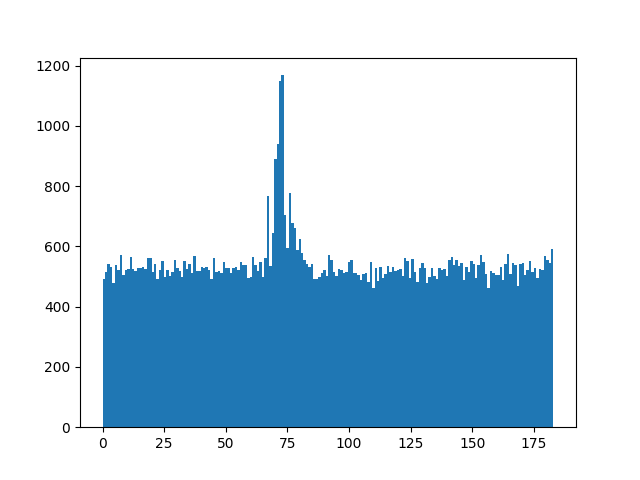
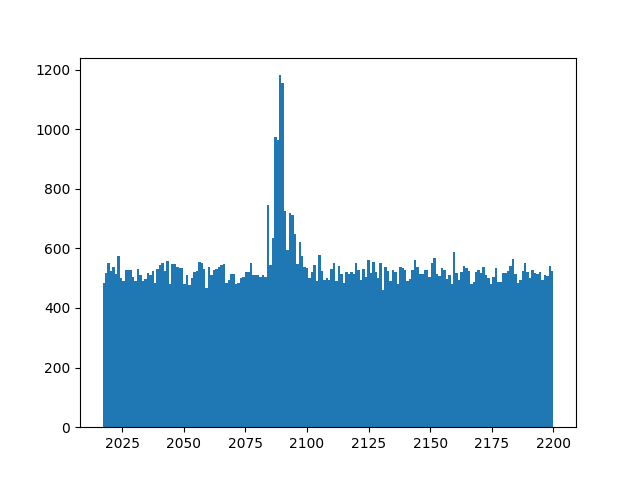
Finishing details
Added statement to create a results text file and implemented a burn period.

diff --git a/main.py b/main.py
@@ -4,6 +4,7 @@ from functools import partial
 import matplotlib.pyplot as plt
 import numpy as np
 from scipy import special as sp
+from scipy import stats
 
 
 def g(k, l1, l2, x):
@@ -27,6 +28,7 @@ with open(get_config("data_path"), "r") as f:
     data = np.array(tuple(int(value) for value in f.read().split()))
 
 n0 = data.size // 2
+burn_period = 1000
 
 rng = np.random.default_rng()
 
@@ -52,24 +54,6 @@ for k in range(reps):
     lambda_1s[k] = lambda_1
     lambda_2s[k] = lambda_2
 
-    # prob = np.exp(
-    #     np.log(lambda_1 * forward_sum) - lambda_1 * forward_index
-    #     + np.log(lambda_2 * reverse_sum) - lambda_2 * reverse_index
-    # )
-
-    # logprob = (
-    #     np.sum(np.log(data))
-    #     + np.sum(sp.loggamma(data))
-    #     - lambda_1 * (2 * forward_index + b0)
-    #     - lambda_2 * (2 * reverse_index + b0)
-    #     + np.log(lambda_1) * (2 * forward_sum + a0 - 1)
-    #     + np.log(lambda_2) * (2 * reverse_sum + a0 - 1)
-    #     - sp.loggamma(forward_sum)
-    #     - sp.loggamma(reverse_sum)
-    #     + (forward_sum + a0) * np.log(forward_index)
-    #     + (reverse_sum + a0) * np.log(reverse_index)
-    # )
-
     precomputed_g = g(forward_index, lambda_1, lambda_2, data)
 
     gs[k] = np.max(precomputed_g)
@@ -84,9 +68,19 @@ for k in range(reps):
     n[k] = n0
 
 if config["DEFAULT"].getboolean("save_plots"):
-    plt.scatter(lambda_1s, lambda_2s)
+    plt.scatter(lambda_1s[burn_period:], lambda_2s[burn_period:])
     plt.savefig("optimized_scatter.png")
 
     plt.clf()
-    plt.hist(n, bins=data.size)
+    plt.hist(n[burn_period:] + 2017, bins=data.size)
     plt.savefig("optimized_histogram.png")
+
+if config["DEFAULT"].getboolean("save_values"):
+    with open("results.txt", 'w') as f:
+        f.writelines(
+            [
+                f"n: {int(np.mean(n[burn_period:] + 2017))}\n",
+                f"lambda 1: {np.mean(lambda_1s[burn_period:])}\n",
+                f"lambda_2: {np.mean(lambda_2s[burn_period:])}\n"
+            ]
+        )

diff --git a/main_old.py b/main_old.py
@@ -52,11 +52,14 @@ for k in range(reps):
             n0 = l
             n[l] = n0
 
+print("finished running")
+
 
 if config["DEFAULT"].getboolean("save_plots"):
     plt.scatter(lambda_1s, lambda_2s)
     plt.savefig("unoptimized_scatter.png")
 
     plt.clf()
-    plt.hist(n, bins=data.size)
+    plt.hist(n + 2016, bins=data.size)
     plt.savefig("unoptimized_histogram.png")
+
